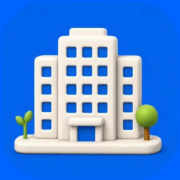
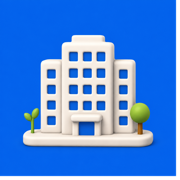
fix(twa): restore original PWA splash & remove heavy splash IPC transfer to fix cold-start first click launch

diff --git a/index.html b/index.html
@@ -106,13 +106,7 @@
 </head>
 
   <body>
-    <div id="root">
-      <div style="position: fixed; inset: 0; background: #0062FF; display: flex; flex-direction: column; align-items: center; justify-content: center; z-index: 99999; margin: 0; padding: 0;">
-        <div style="width: 150px; height: 150px; display: flex; align-items: center; justify-content: center;">
-          <img src="/pwa-splash-logo.png" alt="PG HUB" style="width: 100%; height: 100%; object-fit: contain; border-radius: 32px; box-shadow: 0 20px 40px -10px rgba(0, 20, 80, 0.4);" />
-        </div>
-      </div>
-    </div>
+    <div id="root"></div>
     <noscript>Please enable JavaScript to use PG HUB.</noscript>
     <script type="module" src="/src/main.tsx"></script>
   </body>
